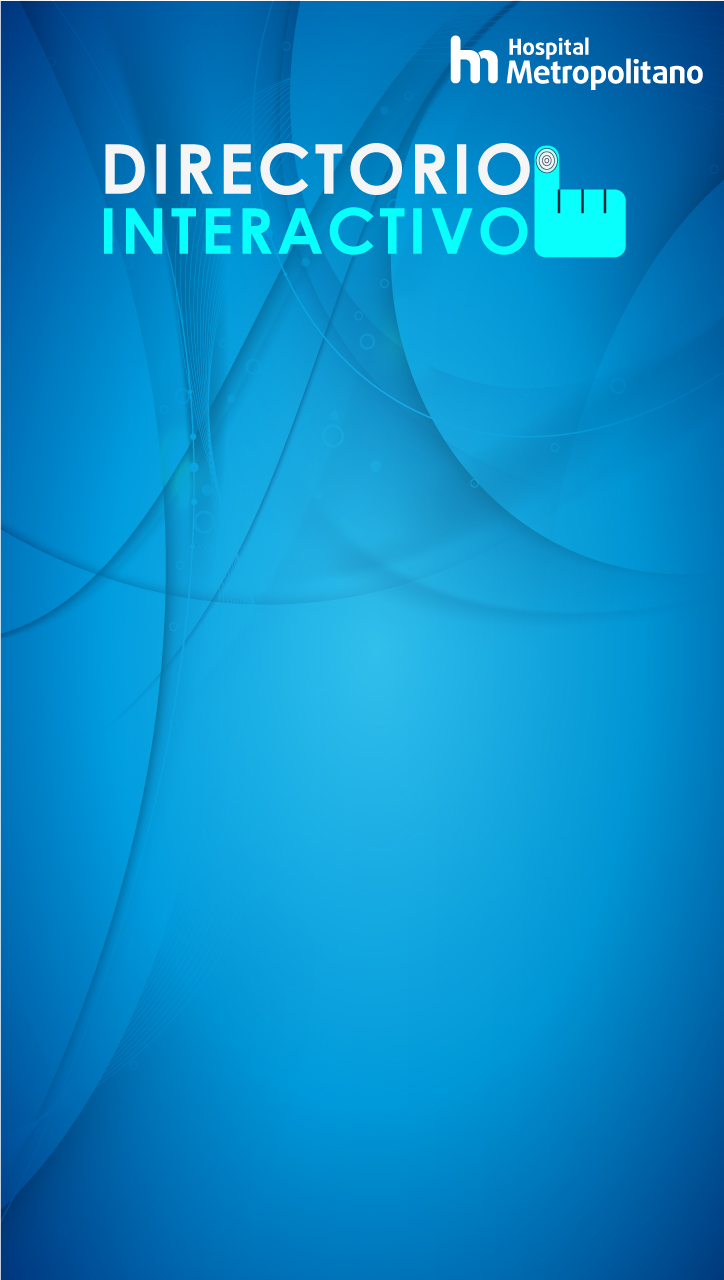
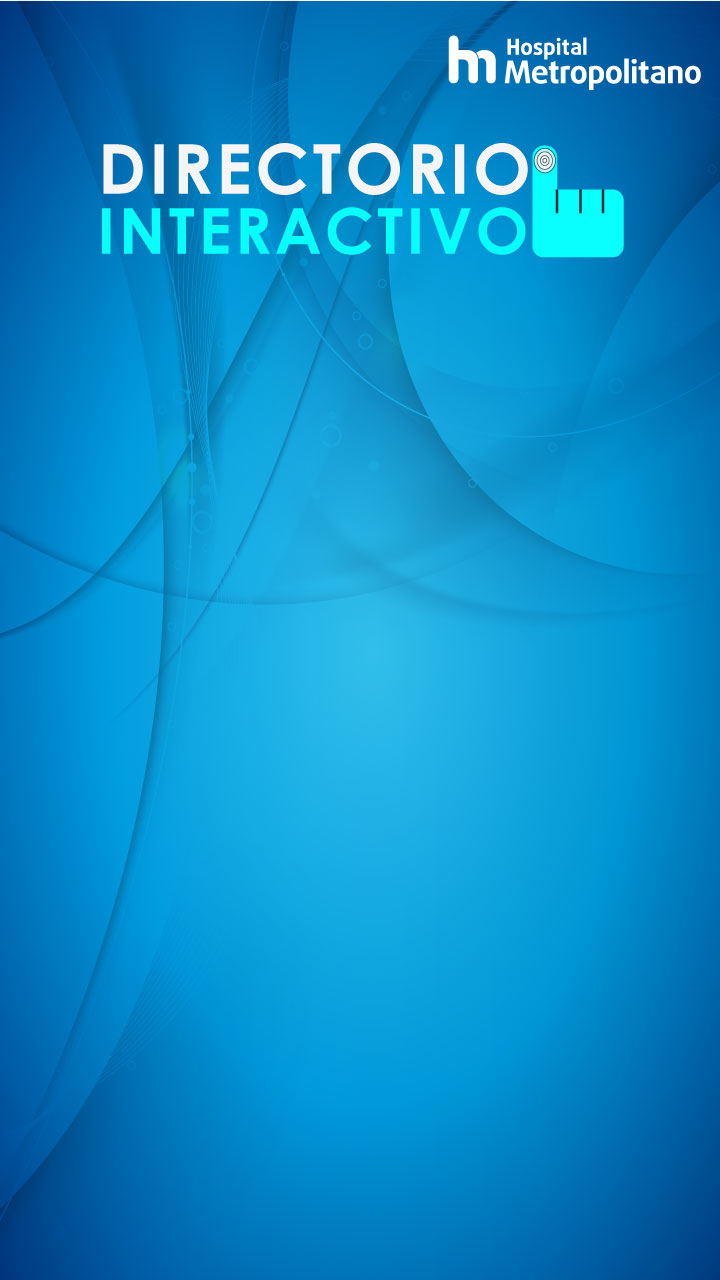
assets in 720 px width

diff --git a/public/stylesheets/app.less b/public/stylesheets/app.less
@@ -8,7 +8,7 @@ a {
 .home-container {
   background-image: url('/images/home/bkgd_home.jpg');
   background-repeat:no-repeat;
-  .size(1280px,724px);
+  .size(1280px,720px);
 }
 #btnMedicos {
   background-image: url('/images/home/btnMedicos.png');
@@ -43,7 +43,7 @@ a {
 .map-container {
   background-image: url('/images/maps/bkgd_maps.jpg');
   background-repeat:no-repeat;
-  .size(1280px,724px);
+  .size(1280px,720px);
 }
 
 #search-form {

diff --git a/public/stylesheets/app.css b/public/stylesheets/app.css
@@ -4754,7 +4754,7 @@ a {
 .home-container {
   background-image: url('/images/home/bkgd_home.jpg');
   background-repeat: no-repeat;
-  width: 724px;
+  width: 720px;
   height: 1280px;
 }
 #btnMedicos {
@@ -4789,7 +4789,7 @@ a {
 .map-container {
   background-image: url('/images/maps/bkgd_maps.jpg');
   background-repeat: no-repeat;
-  width: 724px;
+  width: 720px;
   height: 1280px;
 }
 #search-form {
